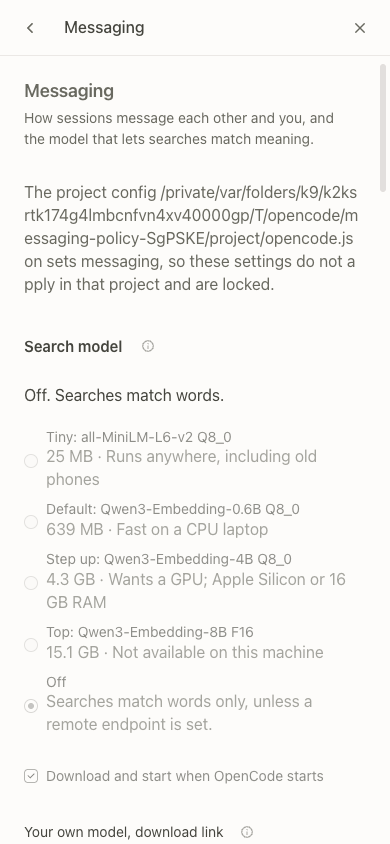
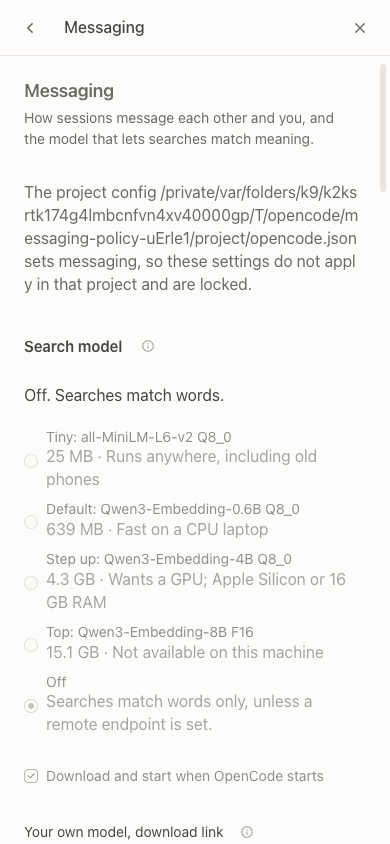
test(settings): capture config override verification

Changed region(s): [[0.0615, 0.2773, 0.9231, 0.3697]]

diff --git a/session-messaging/config-lock.md b/session-messaging/config-lock.md
@@ -1,13 +1,14 @@
 # Config override lock verification
 
-Follow-up to inter-session messaging, verified against source commit 90a37c04e.
+Follow-up to inter-session messaging, verified against source commit 27b06af2c.
 
 - Before: writing the explicit config incorrectly unlocked Messaging, while the live OpenCode project config still won.
 - After: the project warning and lock remain after the same write.
 - Hosted mobile: the warning and numeric stepper locks also remain.
 - Removing the project override unlocks the controls and reloads the explicit config without restarting OpenCode.
 - Enterprise reads remain available. Writes and removal return 403 enterprise_mode and leave both config content and modification time unchanged.
+- With both global JSON and JSONC files present, a directory beneath them remains writable through the explicit config. The live OpenCode config confirms that precedence.
 
-The report records 6 live checks, no browser page errors, and successful process cleanup. Every server, database, profile and config file belongs to the isolated fixture.
+The report records 8 live checks, no browser page errors, and successful process cleanup. Every server, database, profile and config file belongs to the isolated fixture.
 
 Native platform limits from the feature verification remain unchanged: macOS rejects the dev app's real native-notification calls with UNErrorDomain error 1, and this machine has no simulator/emulator runtime for Capacitor execution.
